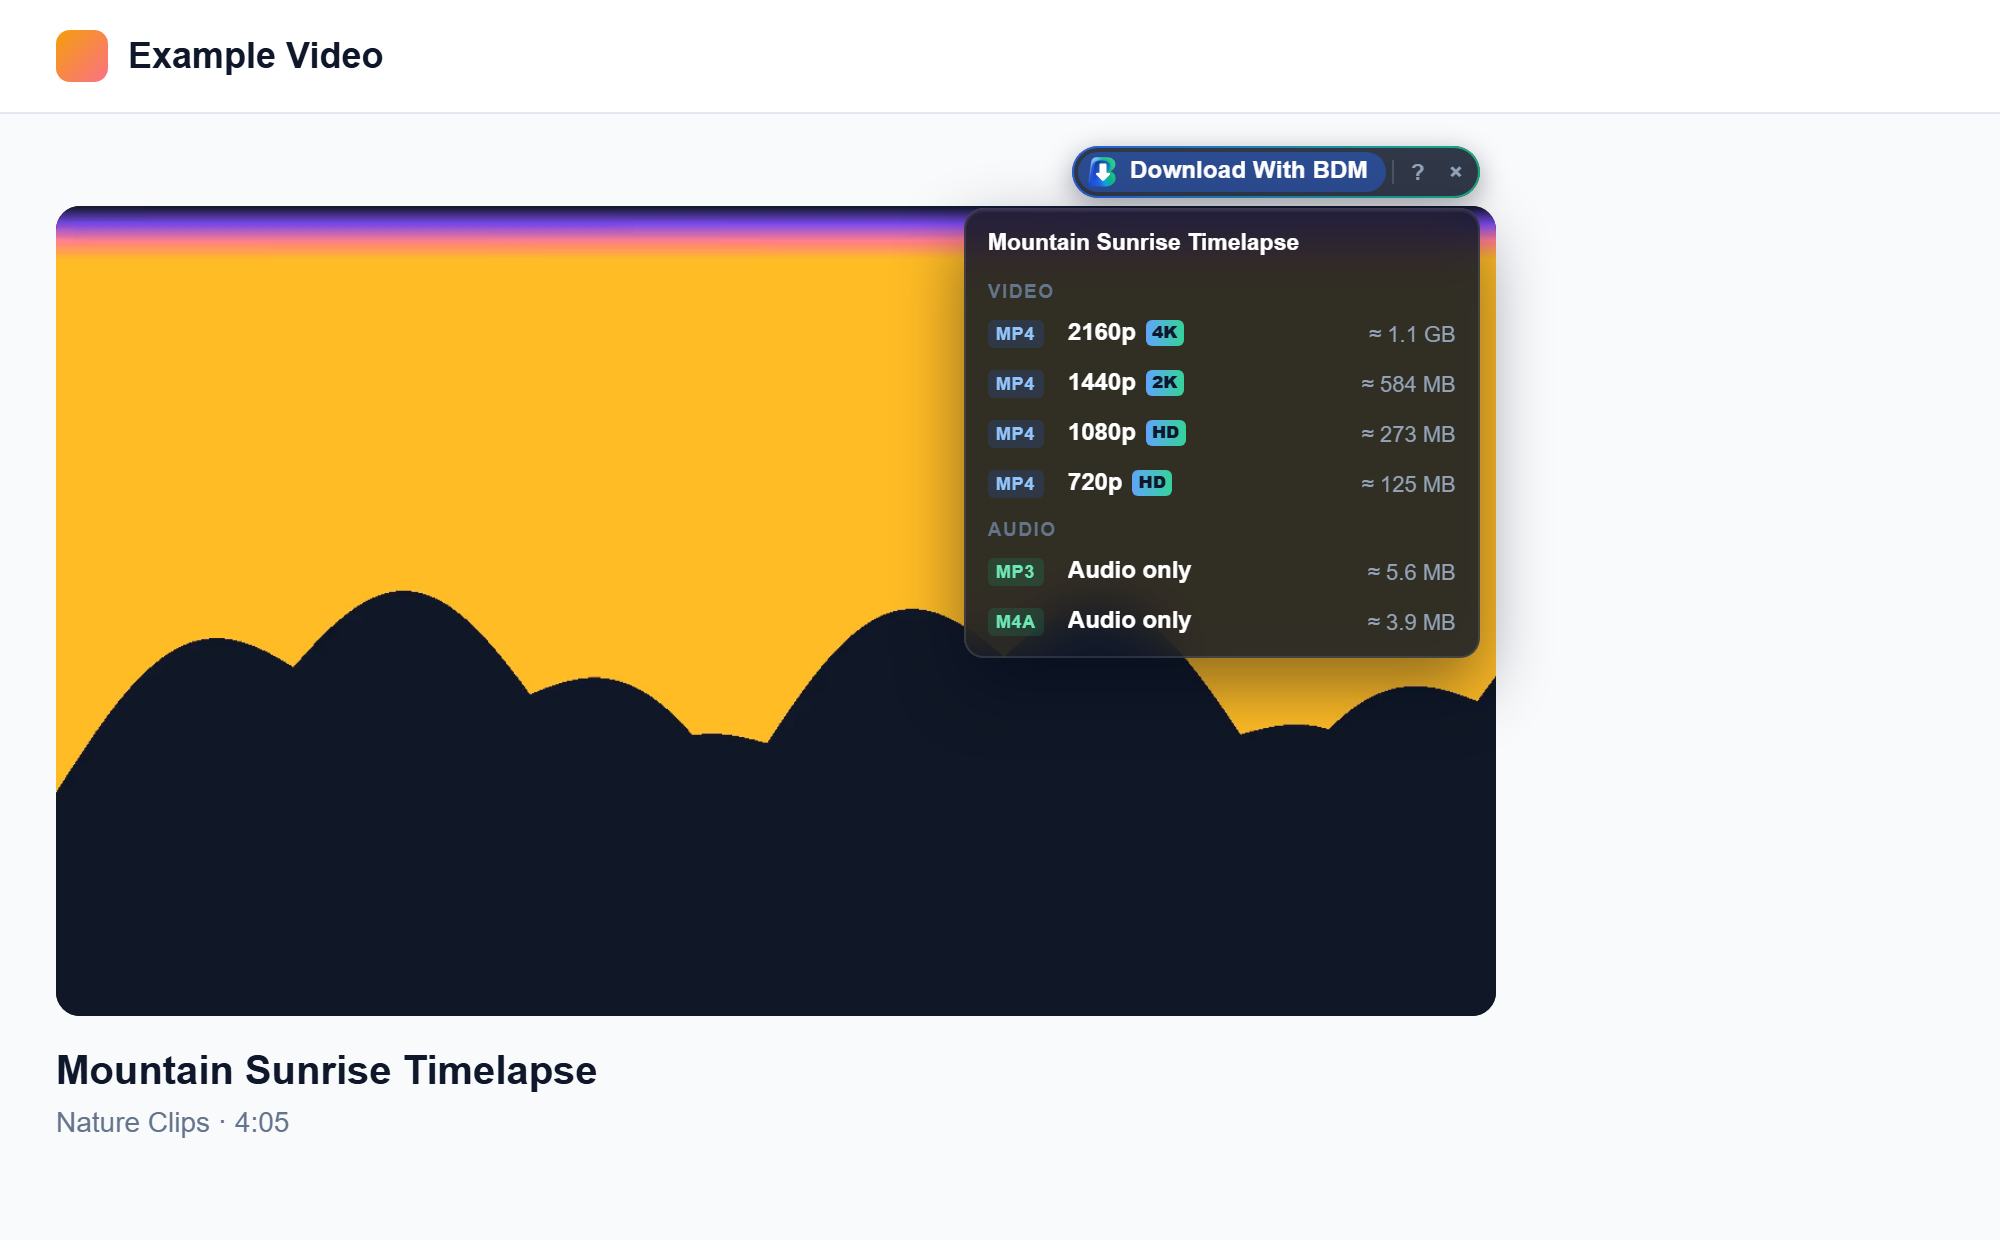
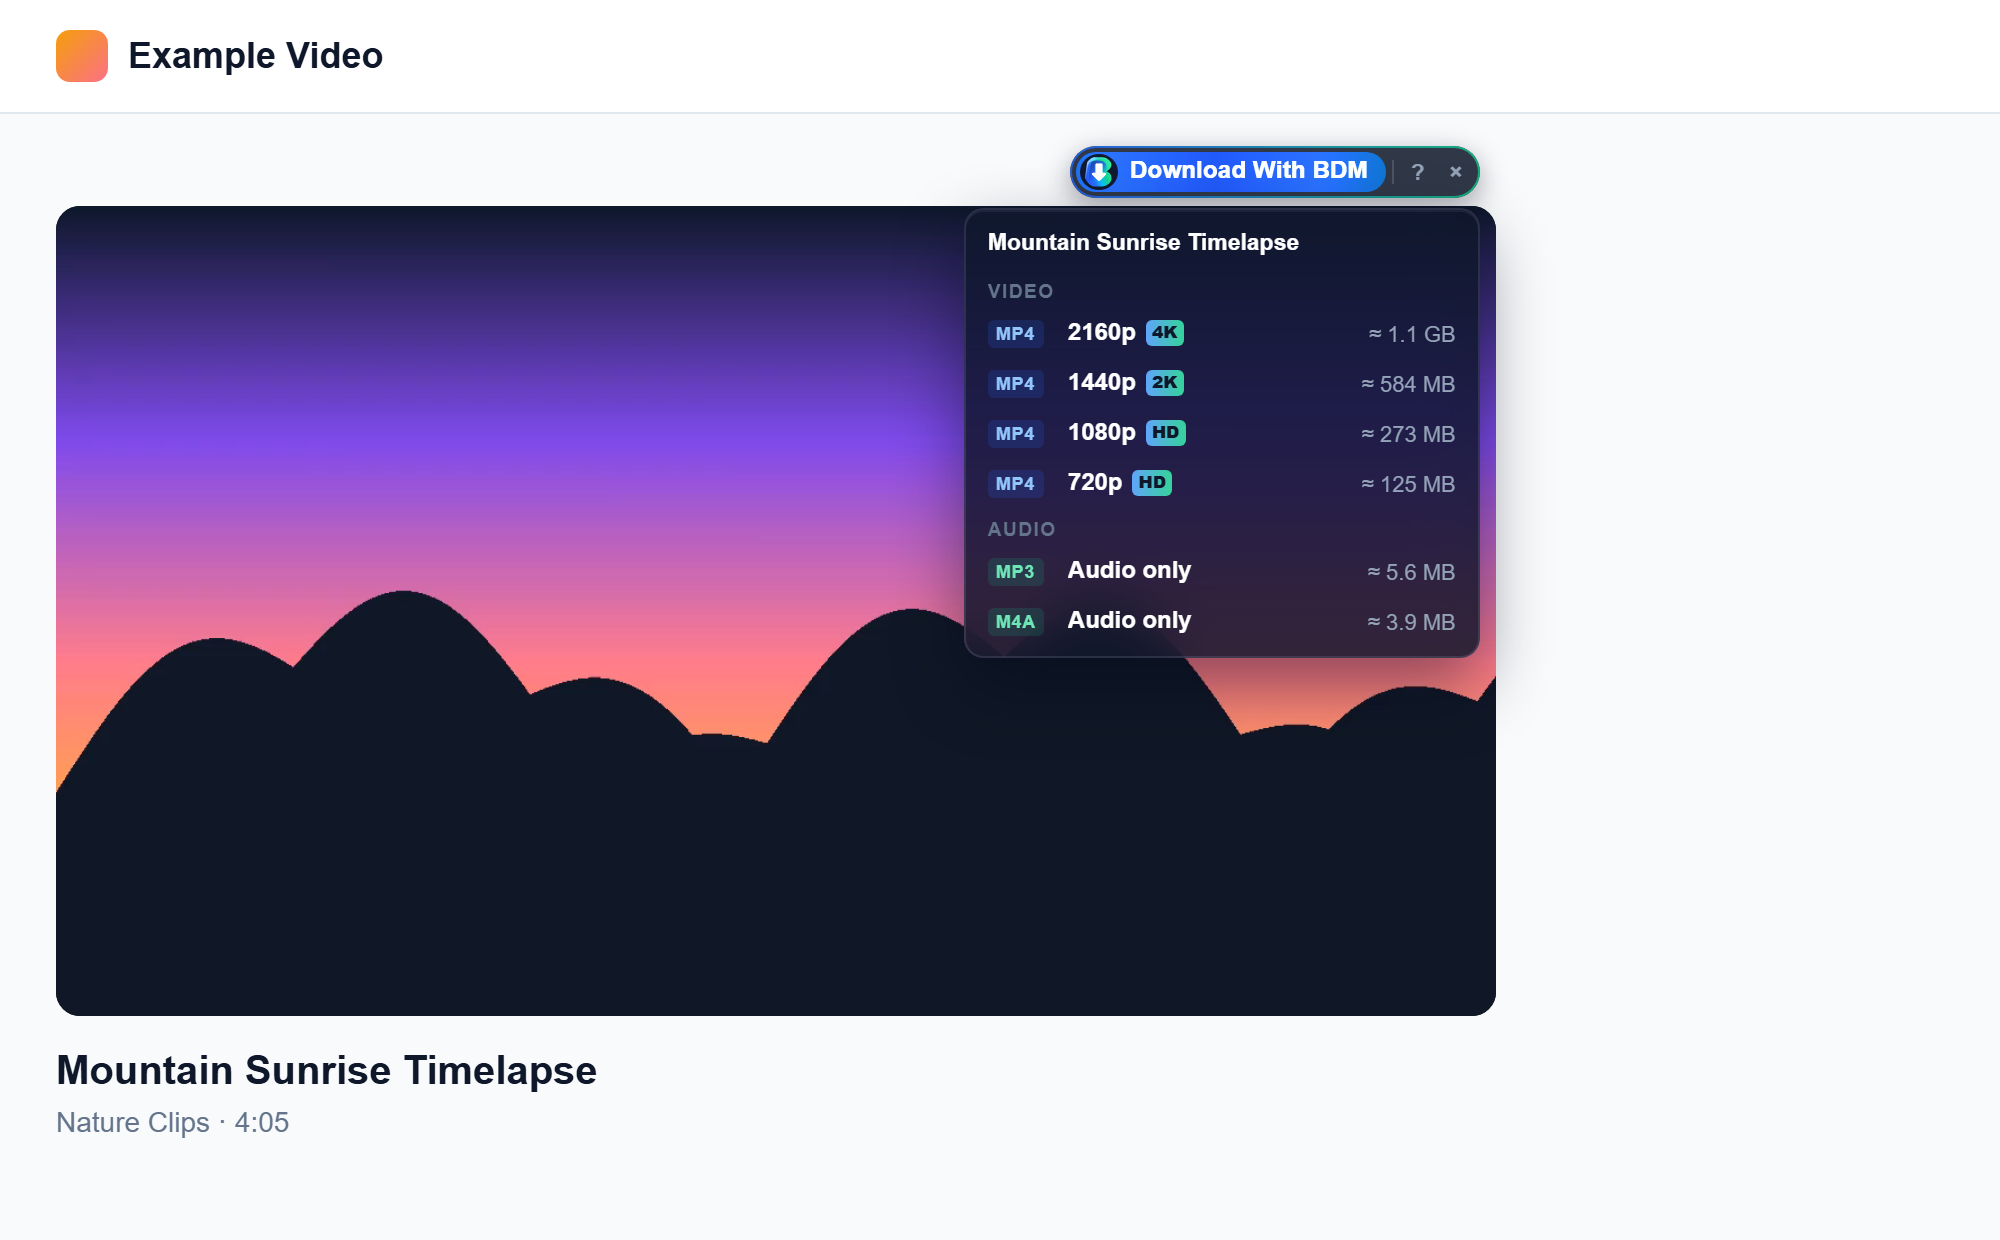
Chrome Web Store package, images and listing text
store-assets/ holds the upload zip (manifest at the root, no key, no tests),
five 1280x800 screenshots, the 440x280 tile and LISTING.md to paste from.
The zip loads in Chrome 156. Panel website screenshot retaken with the
animated button.

Changed region(s): [[0.031, 0.1532, 0.775, 0.6129], [0.527, 0.1226, 0.713, 0.1532]]

diff --git a/store-assets/LISTING.md b/store-assets/LISTING.md
@@ -1,0 +1,58 @@
+# Chrome Web Store listing for the BDM extension
+
+Everything to upload or paste. Permission justifications and more detail are in `STORE_LISTING.md`.
+
+## Upload
+
+| Dashboard field | Use |
+| --- | --- |
+| Package | `bdm-extension-1.0.0-store.zip` (not `extension.zip` in the project root) |
+| Screenshots | `screenshot-1-video-panel.jpg` to `screenshot-5-download-window.jpg` (1280×800) |
+| Small promo tile | `promo-tile-440x280.jpg` |
+| Store icon | `extension/icons/icon-128.png` |
+| Category | Tools (under Productivity) |
+| Language | English |
+
+## Detailed description
+
+Paste this. Replace the two links once they exist.
+
+```text
+Send downloads, links and videos from Chrome to Babarify Download Manager (BDM), a fast download manager for Windows.
+
+REQUIRES THE DESKTOP APP
+This extension works together with the Babarify Download Manager app for Windows 10 and 11. Without the app, downloads simply stay in the browser. Get BDM: [DOWNLOAD LINK]
+
+WHAT IT DOES
+• Capture downloads: files you download go to BDM, by file type, with sites you can exclude
+• Right-click menu: "Download link with BDM" and "Download video or audio with BDM"
+• Optional "Download With BDM" button on videos: pick a quality or audio only
+• Optional media detection: lists the video and audio streams a page loads
+• Optional sign-in downloads: for sites you add, one at a time, BDM can use your browser's sign-in
+
+WHAT BDM ADDS
+• Up to 16 connections per file, pause and resume, and automatic retries
+• Video and audio from sites supported by the open-source yt-dlp tool
+• Queues, schedules, speed limits, batch downloads and a virus scan with Microsoft Defender
+
+YOUR PRIVACY
+No accounts, no analytics and no ads. Addresses you send go only to the BDM app on your own PC, never to Babarify. Optional features stay off until you turn them on and grant permission. Privacy policy: [PRIVACY LINK]
+
+USE IT RESPONSIBLY
+Only download content you have the right to save. DRM-protected media is refused.
+```
+
+## Privacy tab
+
+- **Single purpose:** Sends downloads, links and videos the user chooses to the Babarify Download Manager desktop app on the same PC.
+- **Remote code:** No.
+- **Data usage:** Web history and Authentication information, as explained in `STORE_LISTING.md`.
+- **Privacy policy URL:** `https://babarify.com/bdm/privacy`, once that page is live.
+
+## Test instructions for the reviewer
+
+Replace the link once it exists.
+
+```text
+This extension requires the Babarify Download Manager desktop app for Windows: [DOWNLOAD LINK]. Install it, then reload the extension. The popup should say "Connected to BDM". Without the app, the popup says "BDM isn't connected" and downloads stay in the browser. To try the video button, turn on "Show Download With BDM on videos" in the extension's options, and allow it when Chrome asks.
+```

diff --git a/RESULTS.md b/RESULTS.md
@@ -818,4 +818,16 @@ Measured on this PC with the Sprite Fright video on YouTube (yt-dlp 2026.10.21 s
 - People who ask Windows or the browser for reduced motion get a still gradient.
 - Checked with the real panel script in Chrome (stand-in extension API): frames differ over time, and they're identical with
   reduced motion on. Extension tests: 14 pass. Not yet seen in the installed extension on a real site.
-- `website-assets/18-video-panel.png` still shows the earlier button.
+
+## Chrome Web Store package and images (2026-11-04)
+
+- **Decision (user):** YouTube stays in the store version, accepting the risk of rejection. The policy forbids
+  facilitating unauthorized downloads of copyrighted content and says video downloaders aren't featured.
+- `store-assets/`: `bdm-extension-1.0.0-store.zip` (manifest at the root, no `key`, no tests), five 1280x800
+  screenshots, a 440x280 tile (JPEG, so no alpha channel) and LISTING.md with the text to paste.
+- Checked: everything the manifest names is in the zip; it loads in Chrome 156 with its service worker, popup and
+  options working. It reports "BDM isn't connected" there as expected: no BDM helper in that profile, and its ID isn't
+  in `EXTENSION_IDS` until the store assigns one.
+- `website-assets/18-video-panel.png` retaken with the animated button.
+- **Still needed before submitting:** developer account verified; `babarify.com/bdm/privacy` live; a public BDM
+  download; the store's ID added to BDM and that BDM released.
